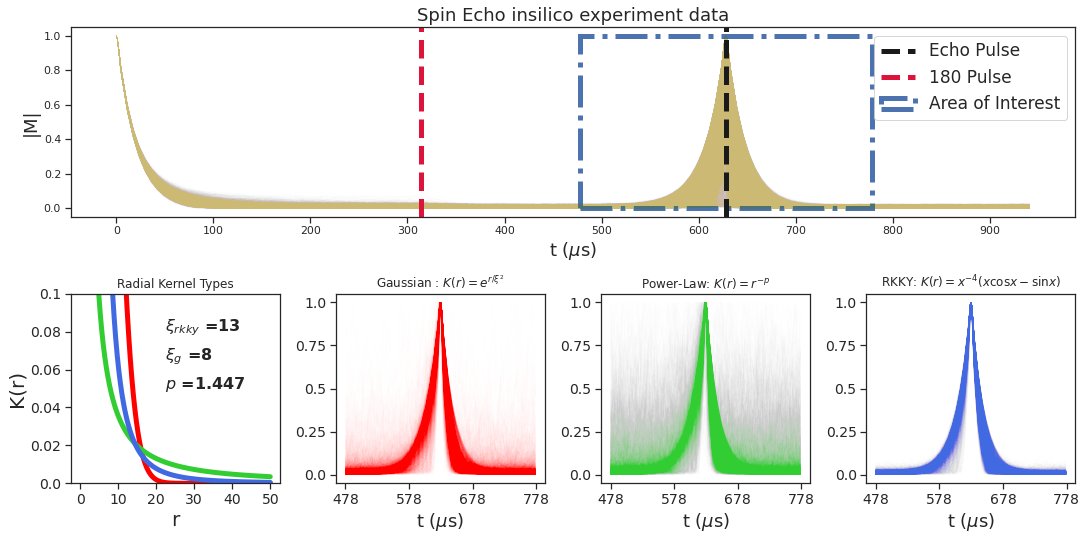
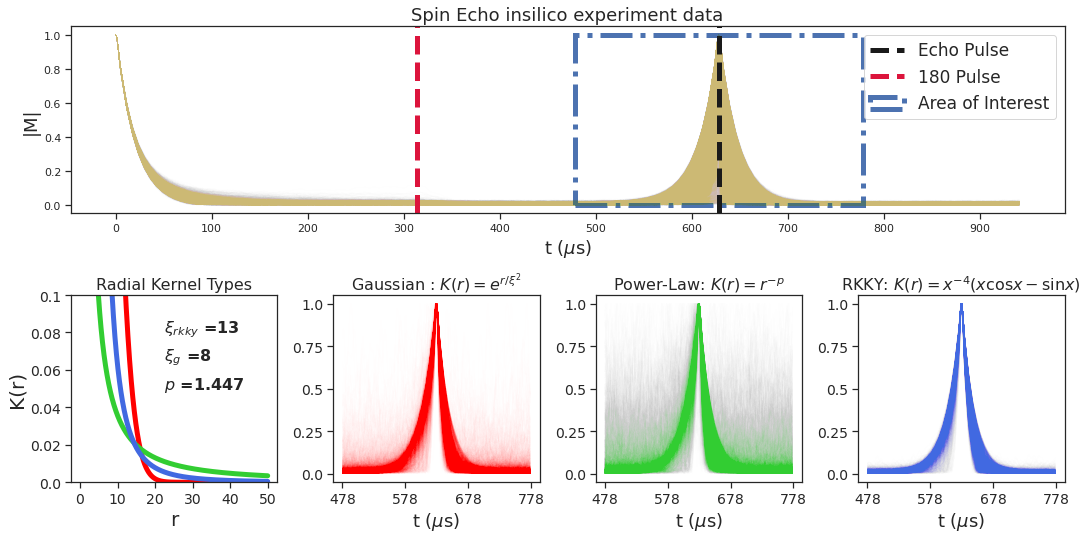
updated dataset fig+size

diff --git a/README.md b/README.md
@@ -56,7 +56,7 @@ You are ready to start experiemnting with the code!
 (---in-progress---)
 
 <div align="center">
-<img src="https://github.com/Anantha-Rao12/Decoding-Quantum-States-with-NMR/blob/main/Assests/dataset_1.png"  alt="NMR simulation Dataset" width="700" height="300">
+<img src="https://github.com/Anantha-Rao12/Decoding-Quantum-States-with-NMR/blob/main/Assests/dataset_1.png"  alt="NMR simulation Dataset" width="800" height="400">
 </div>
 
 ## Contributing
